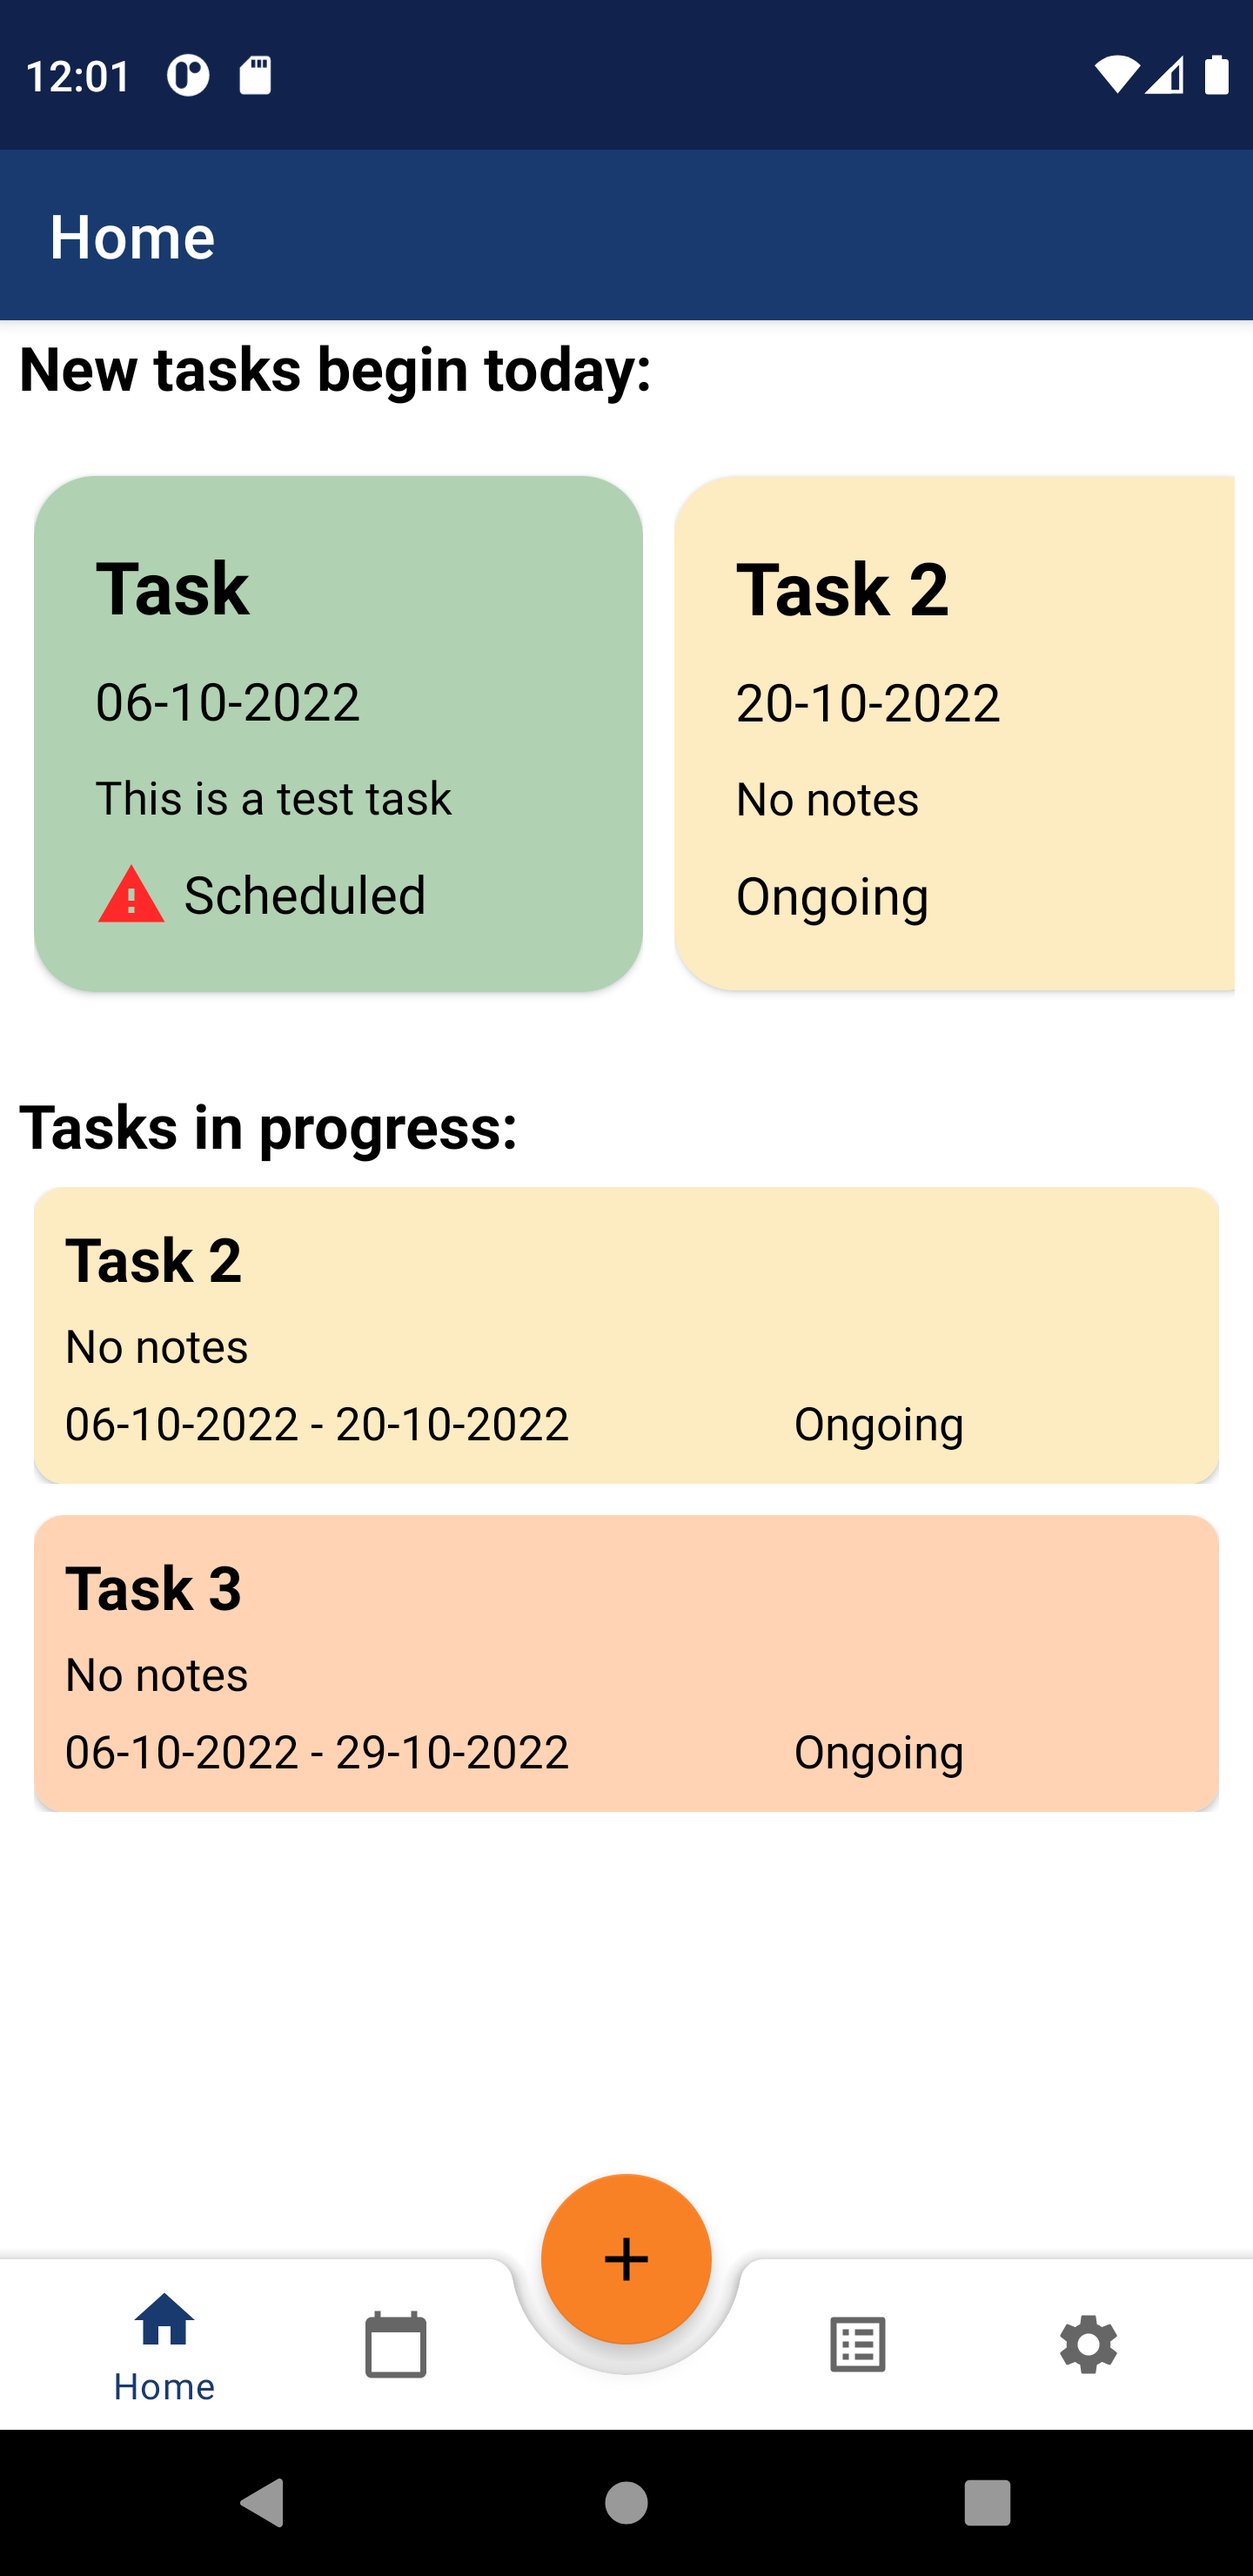
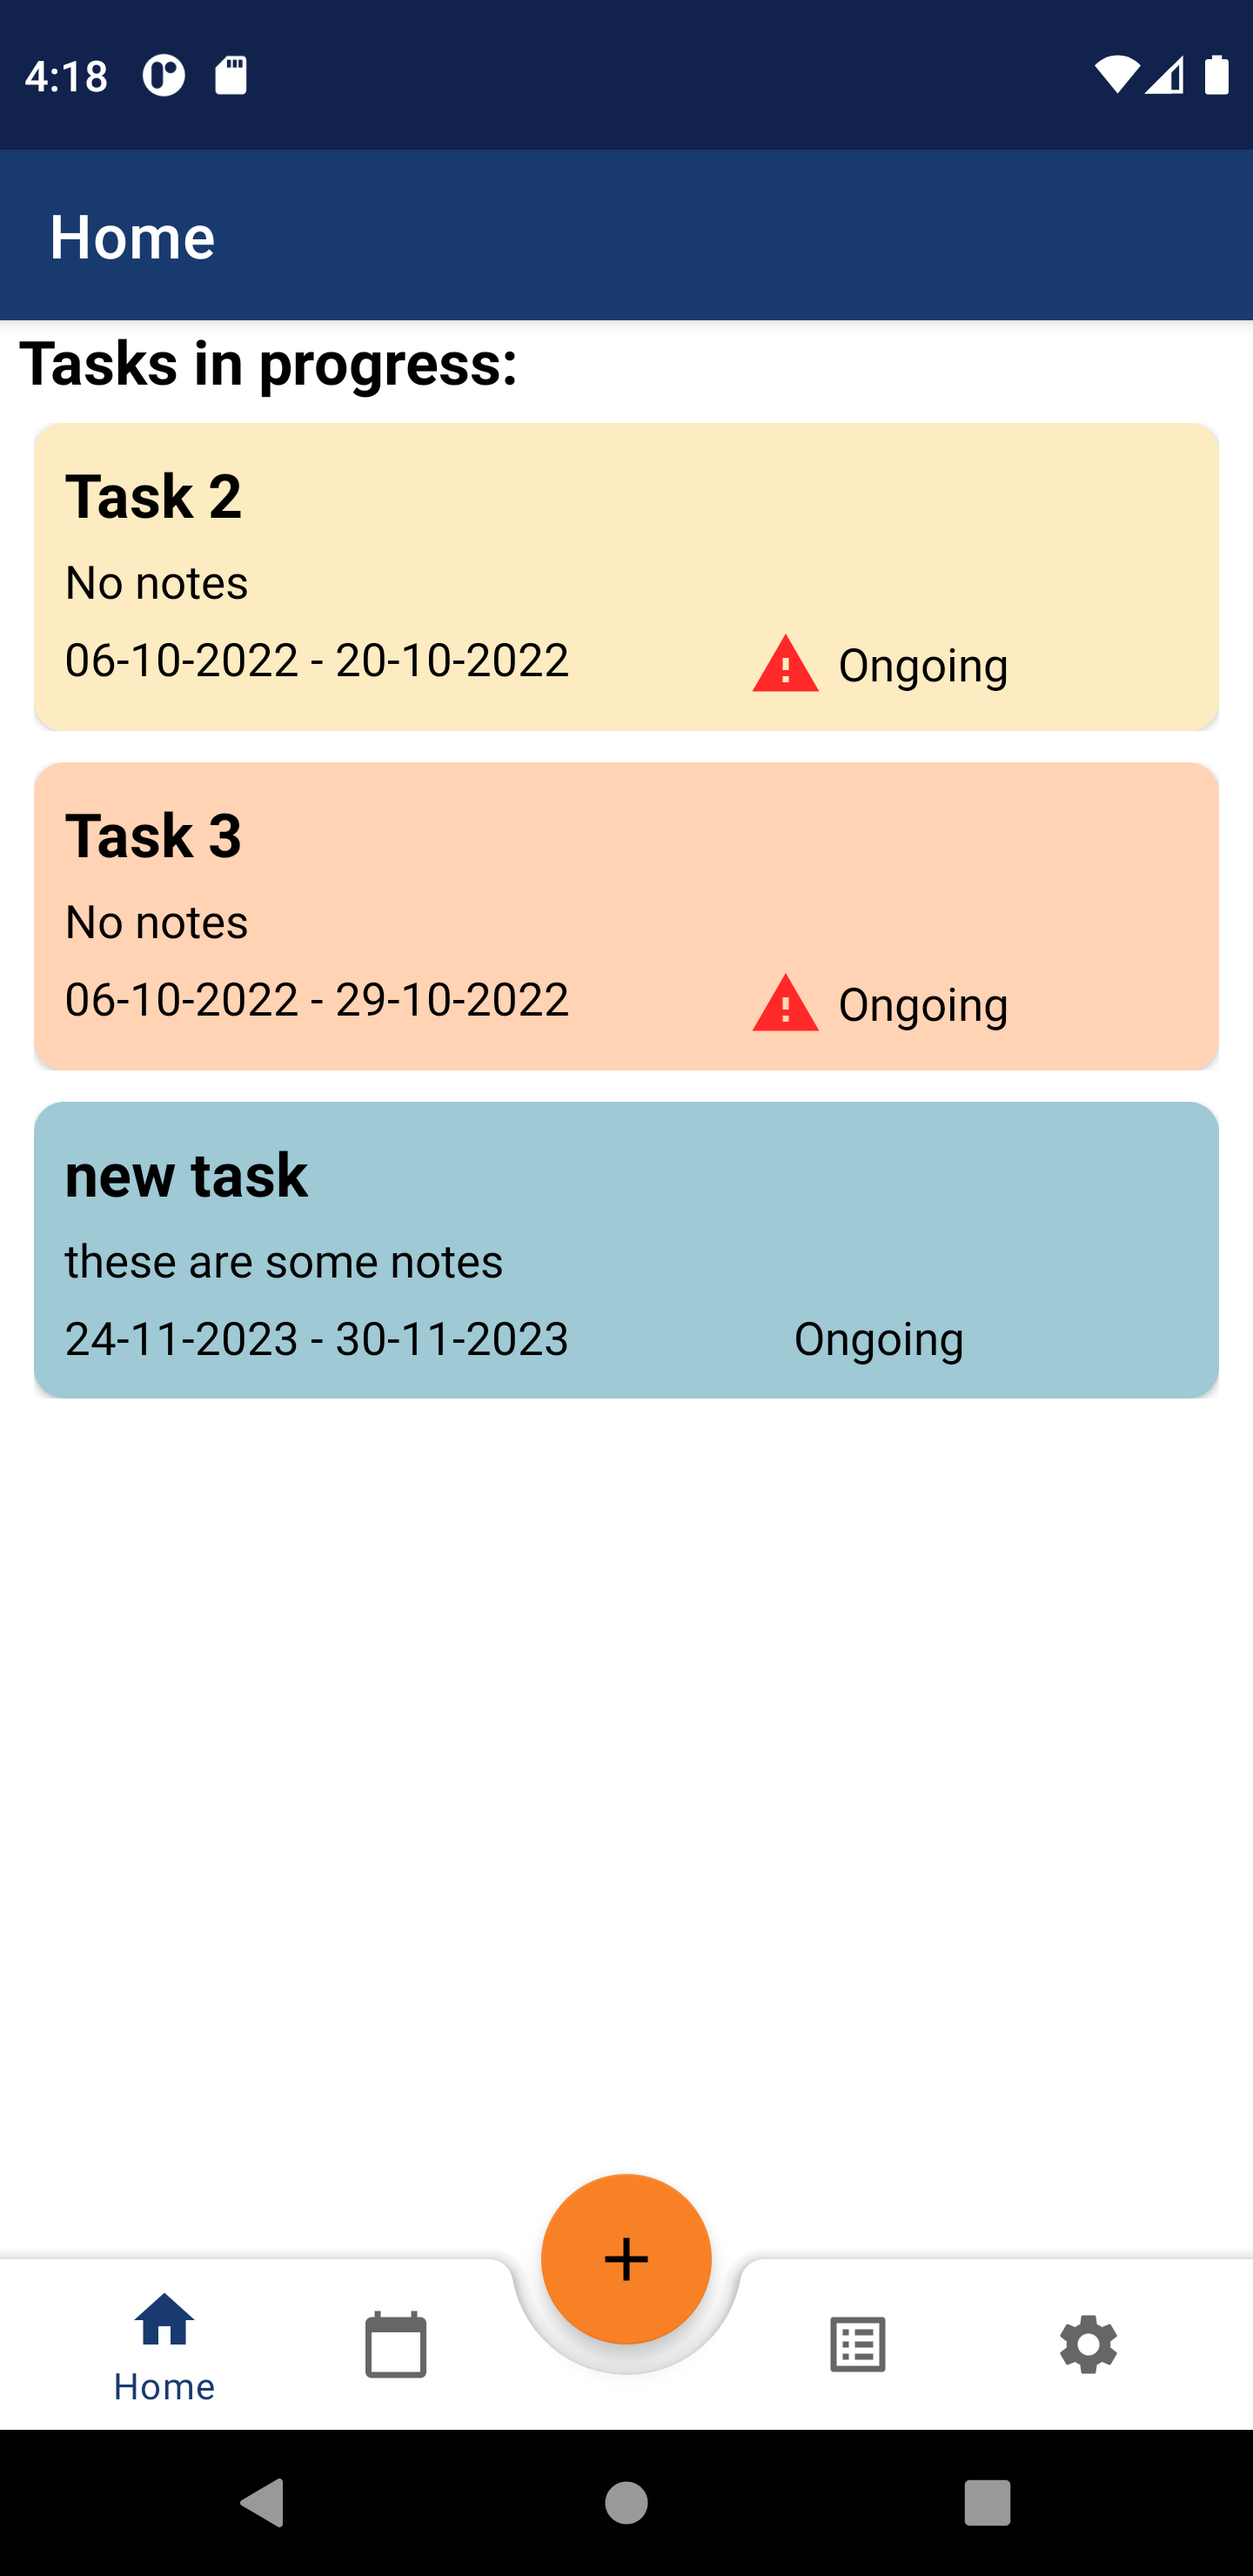
Change in home fragment

diff --git a/app/src/main/java/appbox/room/vasili/simpletodolist/ui/home/HomeFragment.kt b/app/src/main/java/appbox/room/vasili/simpletodolist/ui/home/HomeFragment.kt
@@ -9,7 +9,6 @@ import androidx.fragment.app.Fragment
 import androidx.fragment.app.viewModels
 import androidx.lifecycle.Observer
 import androidx.recyclerview.widget.LinearLayoutManager
-import appbox.room.vasili.simpletodo.TaskAdapter
 import appbox.room.vasili.simpletodolist.SimpleToDoListApplication
 import appbox.room.vasili.simpletodolist.adapters.TaskLongAdapter
 import appbox.room.vasili.simpletodolist.databinding.FragmentHomeBinding
@@ -33,26 +32,6 @@ class HomeFragment : Fragment() {
 
         _binding = FragmentHomeBinding.inflate(inflater, container, false)
         val root: View = binding.root
-
-        val layoutManager_newTasks = LinearLayoutManager(context, LinearLayoutManager.HORIZONTAL, false)
-        _binding!!.recycleviewNewTasks.setLayoutManager(layoutManager_newTasks)
-        _binding!!.recycleviewNewTasks.setHasFixedSize(true)
-        val newTasksAdapter= TaskAdapter()
-        newTasksAdapter.setTaskClickListener(object:TaskAdapter.onTaskClickListener{
-            override fun onTaskClick(task: Task, position: Int) {
-                val intent: Intent = Intent( activity, TaskActivity::class.java)
-                intent.putExtra("task", task)
-                 startActivity(intent)
-            }
-        })
-        _binding!!.recycleviewNewTasks.adapter=newTasksAdapter
-        homeViewModel.getAllTasksForToday().observe(viewLifecycleOwner, object : Observer<List<Task>> {
-            override fun onChanged(taskList: List<Task>) {
-                newTasksAdapter.setListOfTasks(taskList)
-                if(taskList.size==0){ binding.textviewNoNewTasks.visibility=View.VISIBLE}
-                else{ binding.textviewNoNewTasks.visibility=View.GONE}
-            }
-        })
 
         val layoutManager_ongoingTasks = LinearLayoutManager(context, LinearLayoutManager.VERTICAL, false)
         _binding!!.recyclerviewOngoingTasks.setLayoutManager(layoutManager_ongoingTasks)

diff --git a/app/src/main/java/appbox/room/vasili/simpletodolist/ui/home/HomeViewModel.kt b/app/src/main/java/appbox/room/vasili/simpletodolist/ui/home/HomeViewModel.kt
@@ -9,11 +9,6 @@ class HomeViewModel(val taskRepository: TaskRepository) : ViewModel() {
 
     private lateinit var taskList: LiveData<List<Task>>
 
-    fun getAllTasksForToday(): LiveData<List<Task>> {
-        taskList=taskRepository.getAllTasksForToday().asLiveData()
-        return taskList
-    }
-
     fun getActiveTasks(): LiveData<List<Task>> {
         taskList=taskRepository.getActiveTasks().asLiveData()
         return taskList
